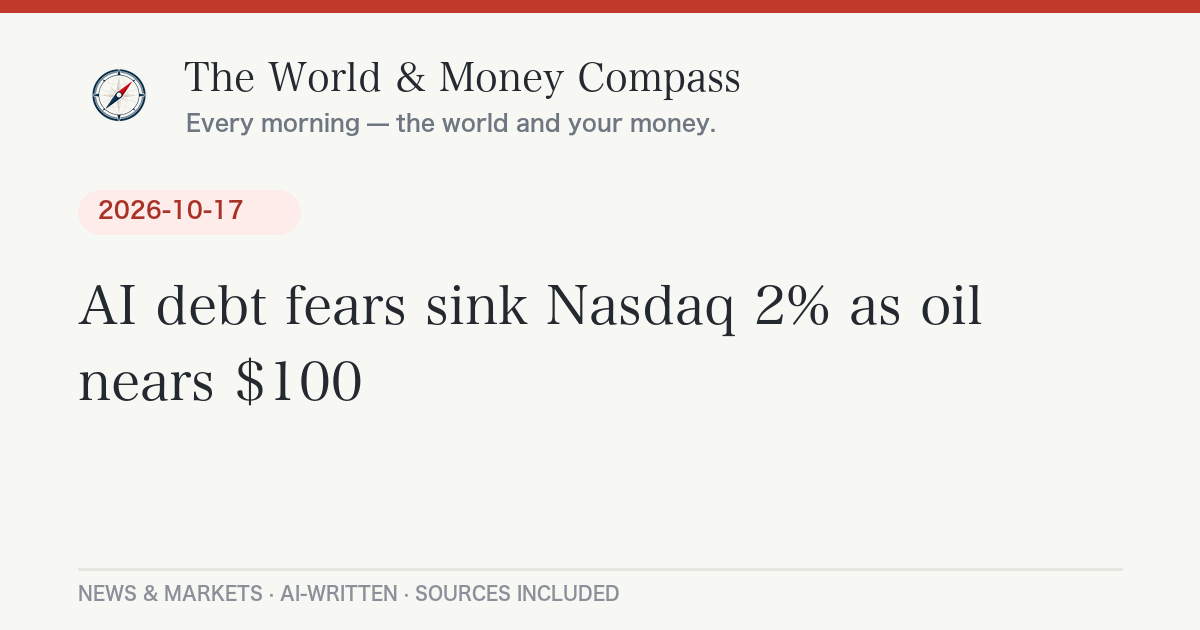
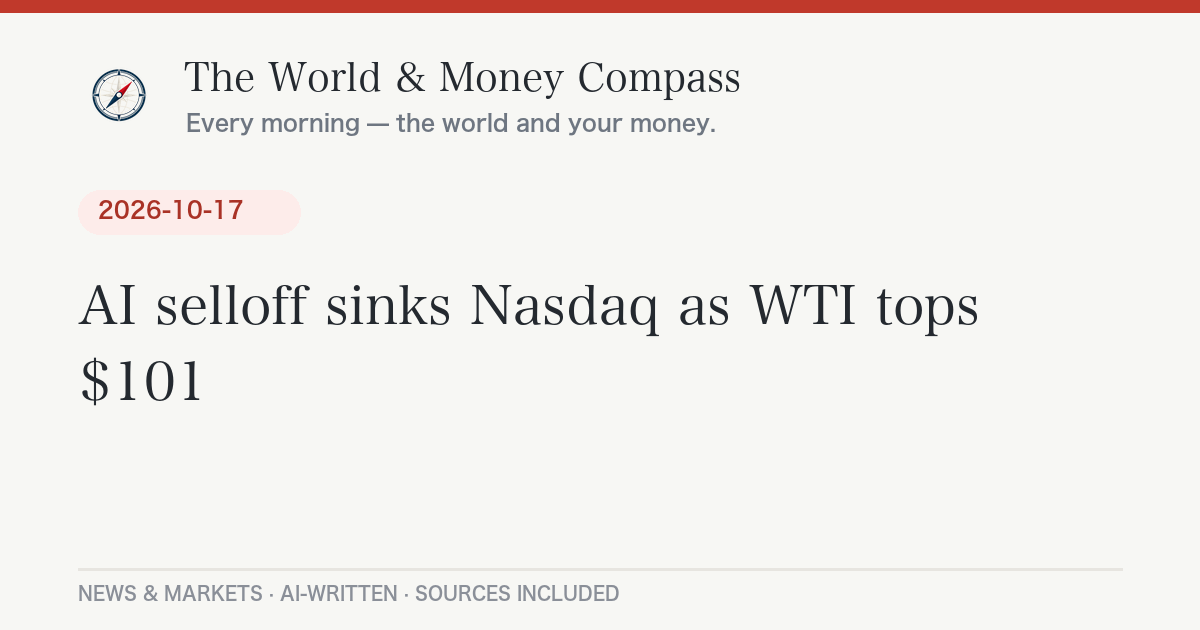
Daily briefing 2026-10-19

Changed region(s): [[0.1233, 0.4524, 0.8325, 0.5429], [0.0617, 0.573, 0.3083, 0.6333]]

diff --git a/_posts/2026-10-19-daily-briefing.md b/_posts/2026-10-19-daily-briefing.md
@@ -1,0 +1,113 @@
+---
+layout: post
+lang: ja
+title: "横浜市長選で原沢氏が初当選、原油は100ドル台のまま週明けへ｜10月19日のニュースとお金"
+date: 2026-10-19 07:41:29 +0900
+categories: [ニュース, 経済]
+headline: "横浜市長選で原沢氏が初当選、原油は100ドル台のまま週明けへ"
+permalink: /2026/10/19/daily-briefing/
+---
+
+## 今日のポイント
+
+パワハラ問題で前市長が辞めたことによる横浜市長選挙で、新人で弁護士の原沢敦美氏が初めて当選しました。世界では、ウクライナがロシア・サンクトペテルブルクの石油施設を攻撃し、ペルシャ湾でもタンカーへの攻撃が続いています。原油は1バレル100ドルを超えたまま、新しい週の取引が始まります。
+
+## 今日の羅針盤（Compass Insight）
+
+週末のニュースを並べると、原油の「供給が細る話」ばかりが目立ちます。ウクライナはロシアの石油ターミナルと油槽所を[無人機で攻撃](https://www.bbc.co.uk/news/articles/c3eweygrjzd7o)し、ペルシャ湾ではサウジアラビア沖でタンカー2隻が[攻撃を受けました](https://www.cnbc.com/2026/10/18/oil-price-today-ukraine-russia-iran-strait-hormuz.html)。その結果、日曜夕方に再開した取引でもWTI原油は[101ドル台](https://www.cnbc.com/2026/10/18/oil-price-today-ukraine-russia-iran-strait-hormuz.html)にとどまっています。トランプ氏は対ロシア制裁の停止を「和平交渉を続けるため」と[説明しました](https://www.bbc.co.uk/news/articles/c9p8gz7zx4peo)が、現地では戦闘とエネルギー施設への攻撃が続いており、外交の言葉と現実の間にずれがあります。
+
+一方、株式市場では、米国の半導体株指数が16日に[3.83%下落](https://www.cnbc.com/quotes/.SOX)し、半導体株は[9日連続の下げ](https://www.cnbc.com/investingclub/2026/10/18/jim-cramer-why-i-am-taking-the-other-side-of-the-trade-that-crushed-the-market-friday.html)となりました。「物価高が続く→金利が下がりにくい→借金でAI投資を進める企業に逆風」という流れが、今の相場の中心にあります。
+
+家計の目線では、原油100ドル台と1ドル＝158円前後の円安が続く限り、ガソリン代や電気・ガス代、輸入食品の値上がり圧力は残りやすいと考えられます。[20日に衆院で審議入りする](https://www.jiji.com/jc/article?k=2026101600773&g=eco)食料品の消費税減税は、実施が2027年4月からの予定のため、目の前の物価高にはすぐ効かない点に注意が必要です。
+
+短期では、今週のネットフリックス・テスラの決算でAI・ハイテク株の売りが落ち着くかに注目です。中長期では、10月27〜28日の米FOMCでの金利判断と、中東・ウクライナ情勢がエネルギー価格をどこまで押し上げるかが、物価と相場の行方を左右しそうです。
+
+## 今日のニュース
+
+### 日本
+
+- 18日投開票の横浜市長選挙で、自民・維新・国民民主の県組織などが推薦した弁護士の原沢敦美氏（59）が[55万2207票を得て初当選](https://news.yahoo.co.jp/articles/2c229c81ab7697750bf9e9dd8017cfef7727c574)しました。次点は参政党推薦の福山敦士氏、パワハラ問題で辞職した前市長の山中竹春氏は3番手でした。投票率は[45.56%で前回の41.64%を上回りました](https://news.yahoo.co.jp/articles/2c229c81ab7697750bf9e9dd8017cfef7727c574)。
+- 食料品の消費税減税法案の審議を前に、自民党の萩生田光一幹事長代行は18日のNHK番組で「直すべきところがあれば直す」と述べ、[野党への譲歩に含みを持たせました](https://news.yahoo.co.jp/pickup/6599227)。
+- 読売新聞の世論調査（16〜18日）で、高市内閣の支持率は[57%とほぼ横ばい](https://news.yahoo.co.jp/pickup/6599288)でした。簗和生・前農相の事実上の更迭による影響は限定的だったとしています。
+- 火星の衛星フォボスから砂を持ち帰る探査機「MMX」を載せたH3ロケット10号機は、[20日午前4時41分ごろに種子島宇宙センターから打ち上げ予定](https://news.yahoo.co.jp/articles/0703a4d04bc7a597d290332ff8170beabdcd4418)です。天候はおおむね晴れの見込みです。
+- 非常に強い台風30号（チャンパー）は、[金曜日ごろに沖縄の南へ進む見込み](https://news.yahoo.co.jp/articles/9353307ad48a1d7dc70d287210c37cbd705dac95)です。その後の進路はまだ定まっておらず、最新情報に注意が必要です。
+
+### 世界
+
+- ロシア第2の都市サンクトペテルブルクで、石油ターミナルと油槽所が夜間の攻撃を受け、[少なくとも1人が死亡](https://www.bbc.co.uk/news/articles/c3eweygrjzd7o)しました。ロシア国防省は、ロシア上空で1000機を超えるウクライナの無人機を撃墜したと発表しています。
+- ペルシャ湾のサウジアラビア沖で16日、タンカー2隻が[攻撃を受けた](https://www.cnbc.com/2026/10/18/oil-price-today-ukraine-russia-iran-strait-hormuz.html)と英国の海事当局が報告しました。イランは、米国が攻撃を再開した場合の[「新たな作戦計画」がある](https://www.cnbc.com/2026/10/18/iran-us-war-rezaei-operational-plan-shipping-attacks.html)としています。
+- カナダ西部アルバータ州の軍基地で17日に大規模な火災が起き、[兵士4人が死亡、19人が重体](https://www.bbc.co.uk/news/articles/cmgelrq8x92do)となりました。カーニー首相は、平時の軍の悲劇として最悪級の一つだと述べました。
+
+### アメリカ
+
+- トランプ大統領は、対ロシア制裁の停止について「ロシアを交渉の席から遠ざけないため」と[SNSで説明しました](https://www.bbc.co.uk/news/articles/c9p8gz7zx4peo)。ウクライナのゼレンスキー大統領は「歴史的な誤り」と反発しています。
+- ベッセント財務長官は、米国がウクライナでのスターリンクの利用を制限しているとの主張について、ゼレンスキー氏に[「十分に気をつけるべきだ」と警告](https://www.cnbc.com/2026/10/18/bessent-zelenskyy-starlink-ukarine-war.html)しました。
+- トランプ政権は農家を支援するため連邦のディーゼル燃料税の納付を猶予しましたが、州からは[懸念の声も出ています](https://www.npr.org/2026/10/18/nx-s1-5996662/trump-suspends-federal-diesel-taxes-to-help-farmers-but-states-issue-warnings)。
+- 米財務省によると、2026会計年度の財政赤字は[1兆9920億ドルと前年度から約12%増え](https://www.cnbc.com/2026/10/16/us-budget-deficit-2026.html)、過去3番目の大きさになりました。
+
+### ヨーロッパ
+
+- フランスでは17日、物価や燃料価格の高騰に抗議するデモに約55万人が参加し、一部が暴動に発展しました。内務省によると[約2400人が逮捕](https://www.bbc.co.uk/news/articles/cw240zl08dm5o)され、リモージュの市庁舎は火災で大きく焼けました。マクロン大統領は18日、テレビ演説で「冷静さと秩序」を呼びかけました。
+- アルバニアでは17日、反政府デモの参加者と警察が[衝突しました](https://www.bbc.co.uk/news/articles/crwydey50xeno)。
+- ヨルダン川西岸では18日、欧州の外交官らがイスラエル人入植者に[襲われました](https://www.bbc.co.uk/news/articles/c962ydpmjm3zo)。
+
+## 経済とお金の動き
+
+### 世界の経済と原油・相場
+
+表は10月16日（金）の終値と前日比です。原油とドル円は、週明けの時間外取引の値も添えています。
+
+| 指標 | 水準 | 前日比 |
+|---|---|---|
+| NYダウ | [5万2002.41ドル](https://www.cnbc.com/quotes/.DJI) | <span class="chg-down">-175.28ドル（-0.34%）</span> |
+| S&P500 | [7659.44](https://www.cnbc.com/quotes/.SPX) | <span class="chg-down">-84.62（-1.09%）</span> |
+| ナスダック総合 | [2万6140.03](https://www.cnbc.com/quotes/.IXIC) | <span class="chg-down">-572.99（-2.15%）</span> |
+| フィラデルフィア半導体株指数 | [1万1137.29](https://www.cnbc.com/quotes/.SOX) | <span class="chg-down">-443.93（-3.83%）</span> |
+| 日経平均株価 | [6万5324.29円](https://news.yahoo.co.jp/articles/a3789ebd67c7eaa620e54de10113330447cd214a) | <span class="chg-up">+898.34円（+1.39%）</span> |
+| WTI原油（日曜夕方の取引） | [101.15ドル/バレル](https://www.cnbc.com/2026/10/18/oil-price-today-ukraine-russia-iran-strait-hormuz.html) | <span class="chg-down">-0.26ドル</span> |
+| ドル円 | [158.02円](https://api.frankfurter.app/latest?from=USD&to=JPY)（ECB基準・10月16日） | 週明けは[157円台後半](https://www.cnbc.com/quotes/JPY=) |
+
+北海ブレントも日曜夕方の取引で[108.82ドル](https://www.cnbc.com/2026/10/18/oil-price-today-ukraine-russia-iran-strait-hormuz.html)と、高い水準を保っています。16日の米国市場は、ダウの下げが小さかった一方、半導体株の下げが目立ちました。「エネルギー高・ハイテク安」の構図は、週をまたいでも変わっていません。
+
+### アメリカの経済
+
+9月の消費者物価は前年比[3.7%上昇](https://www.cnbc.com/2026/10/14/cpi-inflation-report-september-2026.html)し、生産者物価も[6.3%上昇と2022年以来の伸び](https://www.cnbc.com/2026/10/15/september-producer-price-index-retail-sales-data.html)でした。市場では10月のFOMCは金利据え置きとの見方が多いものの、[ウォーシュ議長が利上げで市場を驚かせる可能性](https://www.cnbc.com/2026/10/16/kevin-warsh-fed-october-rate-hike-interest-rates-markets.html)を指摘する分析も出ています。2兆ドル近い財政赤字も、長期金利を押し上げやすい要因として意識されています。今週は[20日にネットフリックス、21日にテスラ](https://seekingalpha.com/article/4830830-tesla-netflix-scheduled-to-report-earnings-next-week-as-investors-focus-on-delayed-cpi)が決算を発表する予定です。
+
+### 日本の経済
+
+日経平均は16日、前日に3300円を超えて下げた反動で、[7営業日ぶりに898円上昇](https://news.yahoo.co.jp/articles/a3789ebd67c7eaa620e54de10113330447cd214a)しました。ただ、その後に米国で半導体株が大きく下げたため、今日の東京市場では半導体関連株への影響が注目されます。長期金利（新発10年債利回り）は16日に[2.930%](https://news.yahoo.co.jp/articles/3a9a184ca1064b75f4deed821a29559656e1bf0a)まで上がっており、住宅ローンの固定金利などへの影響も気になるところです。
+
+## 今日の注目銘柄・セクター
+
+- **半導体関連**：フィラデルフィア半導体株指数は16日に[3.83%下落](https://www.cnbc.com/quotes/.SOX)し、半導体株は[9日連続で下げました](https://www.cnbc.com/investingclub/2026/10/18/jim-cramer-why-i-am-taking-the-other-side-of-the-trade-that-crushed-the-market-friday.html)。データセンター向け投資の勢いが続くのかを、市場が改めて疑い始めています。日本の半導体関連株にも影響が出やすい局面です。
+- **コアウィーブ（AI向けデータセンター）**：同社の債務の保証料（CDS）が[「危機的」とされる水準に達しました](https://www.cnbc.com/2026/10/15/coreweave-credit-default-swaps-hit-distress-levels-as-investors-sour-on-ai-debt.html)。借金でAI投資を進める企業への不安を映す銘柄として注目されています。
+- **バークシャー・ハザウェイ**：相場全体が売られる中で株価が上がり、バフェット氏がCEO退任を表明して以来の[高値をつけました](https://www.cnbc.com/2026/10/17/berkshire-rally-to-highest-since-buffett-announcement.html)。値動きが安定した銘柄に資金が移る動きの一例です。
+- **エネルギー・石油関連**：ロシアの石油施設への攻撃やペルシャ湾でのタンカー攻撃で、原油が[100ドルを超えたまま](https://www.cnbc.com/2026/10/18/oil-price-today-ukraine-russia-iran-strait-hormuz.html)となっています。ただし、政治や外交の動きで価格が大きく振れやすい点に注意が必要です。
+
+*※特定銘柄の売買を推奨するものではありません。投資判断はご自身の責任で。*
+
+## まとめ：注目の3つ
+
+1. **原油100ドル台が続くか**：ロシアの石油施設やペルシャ湾のタンカーへの攻撃と、燃料価格を抑えたい米政権の動き
+2. **半導体・AI株の売りが止まるか**：9日続落の半導体株と、今週のネットフリックス・テスラ決算
+3. **国内政治の日程**：横浜の新市長の船出と、20日に審議入りする食料品の消費税減税法案
+
+---
+<div class="post-sources" markdown="1">
+
+**出典：**
+- [朝日新聞（Yahoo!ニュース）：横浜市長選、参政推薦の福山氏が次点　3番手山中前市長は46万票減](https://news.yahoo.co.jp/articles/2c229c81ab7697750bf9e9dd8017cfef7727c574)
+- [時事通信（Yahoo!ニュース）：火星衛星探査機、20日未明打ち上げ　「MMX」、H3・10号機で](https://news.yahoo.co.jp/articles/0703a4d04bc7a597d290332ff8170beabdcd4418)
+- [読売新聞（Yahoo!ニュース）：日経平均7営業日ぶり上昇、終値898円高の6万5324円](https://news.yahoo.co.jp/articles/a3789ebd67c7eaa620e54de10113330447cd214a)
+- [BBC: Oil facilities hit in deadly overnight attack on St Petersburg](https://www.bbc.co.uk/news/articles/c3eweygrjzd7o)
+- [BBC: Macron calls for 'calm and order' after riots across France](https://www.bbc.co.uk/news/articles/cw240zl08dm5o)
+- [BBC: Trump says suspension of Russia sanctions is to keep peace negotiations going](https://www.bbc.co.uk/news/articles/c9p8gz7zx4peo)
+- [BBC: What we know so far about deadly fire at Canadian military base](https://www.bbc.co.uk/news/articles/cmgelrq8x92do)
+- [CNBC: Brent crude hovers near $109 a barrel as Ukraine resumes energy strikes](https://www.cnbc.com/2026/10/18/oil-price-today-ukraine-russia-iran-strait-hormuz.html)
+- [CNBC: U.S. budget deficit swells to almost $2 trillion for fiscal 2026](https://www.cnbc.com/2026/10/16/us-budget-deficit-2026.html)
+- [CNBC: Consumer prices rose 3.7% annually in September](https://www.cnbc.com/2026/10/14/cpi-inflation-report-september-2026.html)
+- 市場データ: [CNBC Quotes](https://www.cnbc.com/quotes/.DJI) ／ [frankfurter API](https://api.frankfurter.app/) ほか
+
+*本記事は公開情報をもとに作成しています。*
+
+</div>

diff --git a/_posts/2026-10-19-daily-briefing-en.md b/_posts/2026-10-19-daily-briefing-en.md
@@ -1,0 +1,50 @@
+---
+layout: post
+lang: en
+title: "Oil holds above $100 as Ukraine hits Russian fuel sites and Gulf tanker attacks continue — October 19, 2026"
+date: 2026-10-19 07:41:29 +0900
+headline: "Oil holds above $100 as Ukraine hits Russian fuel sites and Gulf tanker attacks continue"
+permalink: /2026/10/19/daily-briefing/
+---
+
+## Top U.S. Stories
+
+- **Trump defends Russia sanctions pause.** President Trump said he suspended several Russia sanctions so as not to [drive Moscow "away from the bargaining table,"](https://www.bbc.co.uk/news/articles/c9p8gz7zx4peo) while Ukraine's Zelensky called siding with Putin a "historic mistake."
+  *Why it matters:* Washington and Europe are now visibly split on Russia policy, and the move is tied to Trump's push to bring Russian diesel to market and ease fuel prices.
+- **Oil stays above $100.** In Sunday evening trading, WTI crude stood at [$101.15 a barrel and Brent at $108.82](https://www.cnbc.com/2026/10/18/oil-price-today-ukraine-russia-iran-strait-hormuz.html) after Ukrainian drones hit oil facilities in St. Petersburg and two tankers were attacked off Saudi Arabia.
+  *Why it matters:* Pricier fuel keeps inflation sticky right before the Fed meets on Oct. 27–28.
+- **Deficit near $2 trillion.** The Treasury reported a fiscal 2026 deficit of [$1.992 trillion, about 12% higher than the prior year](https://www.cnbc.com/2026/10/16/us-budget-deficit-2026.html). It is the third-largest on record.
+  *Why it matters:* Heavy borrowing adds upward pressure on long-term interest rates, including mortgage rates.
+- **Bessent warns Zelensky over Starlink.** Treasury Secretary Scott Bessent told Zelensky to ["be very careful"](https://www.cnbc.com/2026/10/18/bessent-zelenskyy-starlink-ukarine-war.html) about claims that the U.S. is throttling Starlink in Ukraine.
+- **Diesel tax relief for farmers.** The administration deferred federal diesel taxes to help farmers, but [states are issuing warnings](https://www.npr.org/2026/10/18/nx-s1-5996662/trump-suspends-federal-diesel-taxes-to-help-farmers-but-states-issue-warnings) about the impact.
+
+## Compass Insight
+
+The weekend's news all points the same way: less oil getting to market. Ukraine struck Russian fuel terminals, Iran's campaign against Gulf shipping goes on, and crude is holding above $100 even as Washington says it wants lower fuel prices. That pressure feeds straight into inflation. September CPI ran at 3.7%, and higher inflation makes it harder for rates to come down, which is the main threat to debt-funded AI spending. Semiconductors have now fallen nine sessions in a row. In the short term, watch whether Netflix and Tesla earnings this week can calm the tech selloff. Over the longer run, the Fed's Oct. 27–28 decision and whether energy supply disruptions ease will set the tone into the Nov. 3 midterms.
+
+## Markets
+
+Friday, Oct. 16 closes: the Dow fell [0.34% to 52,002.41](https://www.cnbc.com/quotes/.DJI), the S&P 500 dropped [1.09% to 7,659.44](https://www.cnbc.com/quotes/.SPX), and the Nasdaq slid [2.15% to 26,140.03](https://www.cnbc.com/quotes/.IXIC). The Philadelphia Semiconductor Index lost [3.83%](https://www.cnbc.com/quotes/.SOX). In Tokyo, the Nikkei rose [1.39% to 65,324.29](https://news.yahoo.co.jp/articles/a3789ebd67c7eaa620e54de10113330447cd214a) before the U.S. chip selloff. The dollar was at [¥158.02](https://api.frankfurter.app/latest?from=USD&to=JPY) (ECB reference rate, Oct. 16).
+
+## Stocks in Focus
+
+- **Semiconductors:** chip stocks fell for a [ninth straight day](https://www.cnbc.com/investingclub/2026/10/18/jim-cramer-why-i-am-taking-the-other-side-of-the-trade-that-crushed-the-market-friday.html) as investors questioned the data-center spending boom.
+- **CoreWeave:** credit default swaps on its debt hit [distress levels](https://www.cnbc.com/2026/10/15/coreweave-credit-default-swaps-hit-distress-levels-as-investors-sour-on-ai-debt.html), making it a focal point for worries about AI debt.
+- **Berkshire Hathaway:** shares went against the selloff and reached their [highest level since Buffett announced he would step down as CEO](https://www.cnbc.com/2026/10/17/berkshire-rally-to-highest-since-buffett-announcement.html).
+
+---
+<div class="post-sources" markdown="1">
+
+**Sources:**
+- [BBC: Trump says suspension of Russia sanctions is to keep peace negotiations going](https://www.bbc.co.uk/news/articles/c9p8gz7zx4peo)
+- [BBC: Oil facilities hit in deadly overnight attack on St Petersburg](https://www.bbc.co.uk/news/articles/c3eweygrjzd7o)
+- [CNBC: Brent crude hovers near $109 a barrel as Ukraine resumes energy strikes](https://www.cnbc.com/2026/10/18/oil-price-today-ukraine-russia-iran-strait-hormuz.html)
+- [CNBC: U.S. budget deficit swells to almost $2 trillion for fiscal 2026](https://www.cnbc.com/2026/10/16/us-budget-deficit-2026.html)
+- [CNBC: Bessent warns Zelenskyy to 'be very careful' about Starlink claims](https://www.cnbc.com/2026/10/18/bessent-zelenskyy-starlink-ukarine-war.html)
+- [CNBC: Consumer prices rose 3.7% annually in September](https://www.cnbc.com/2026/10/14/cpi-inflation-report-september-2026.html)
+- [NPR: Trump defers federal diesel taxes to help farmers, but states issue warnings](https://www.npr.org/2026/10/18/nx-s1-5996662/trump-suspends-federal-diesel-taxes-to-help-farmers-but-states-issue-warnings)
+- Market data: [CNBC Quotes](https://www.cnbc.com/quotes/.DJI) / [frankfurter API](https://api.frankfurter.app/)
+
+*Auto-generated and AI-written. Not investment advice.*
+
+</div>
